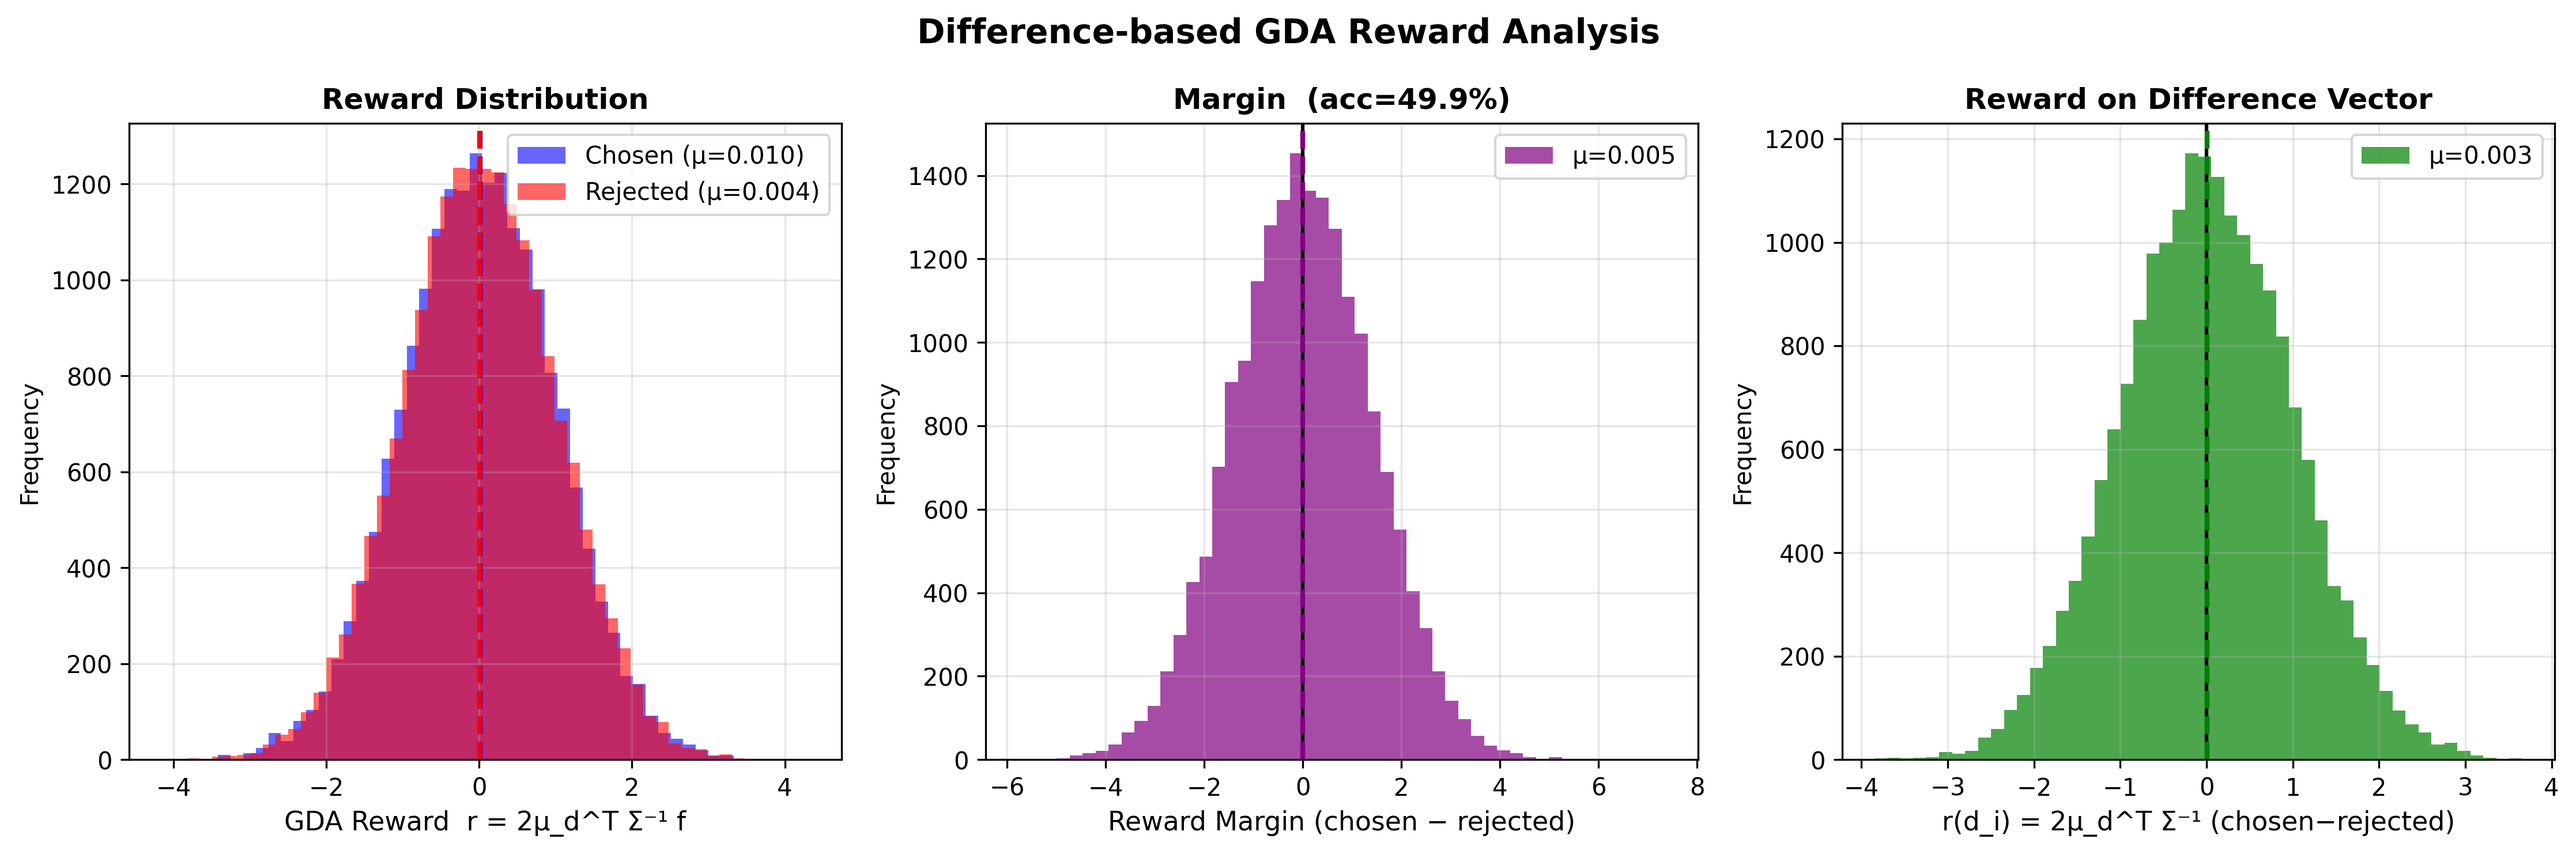
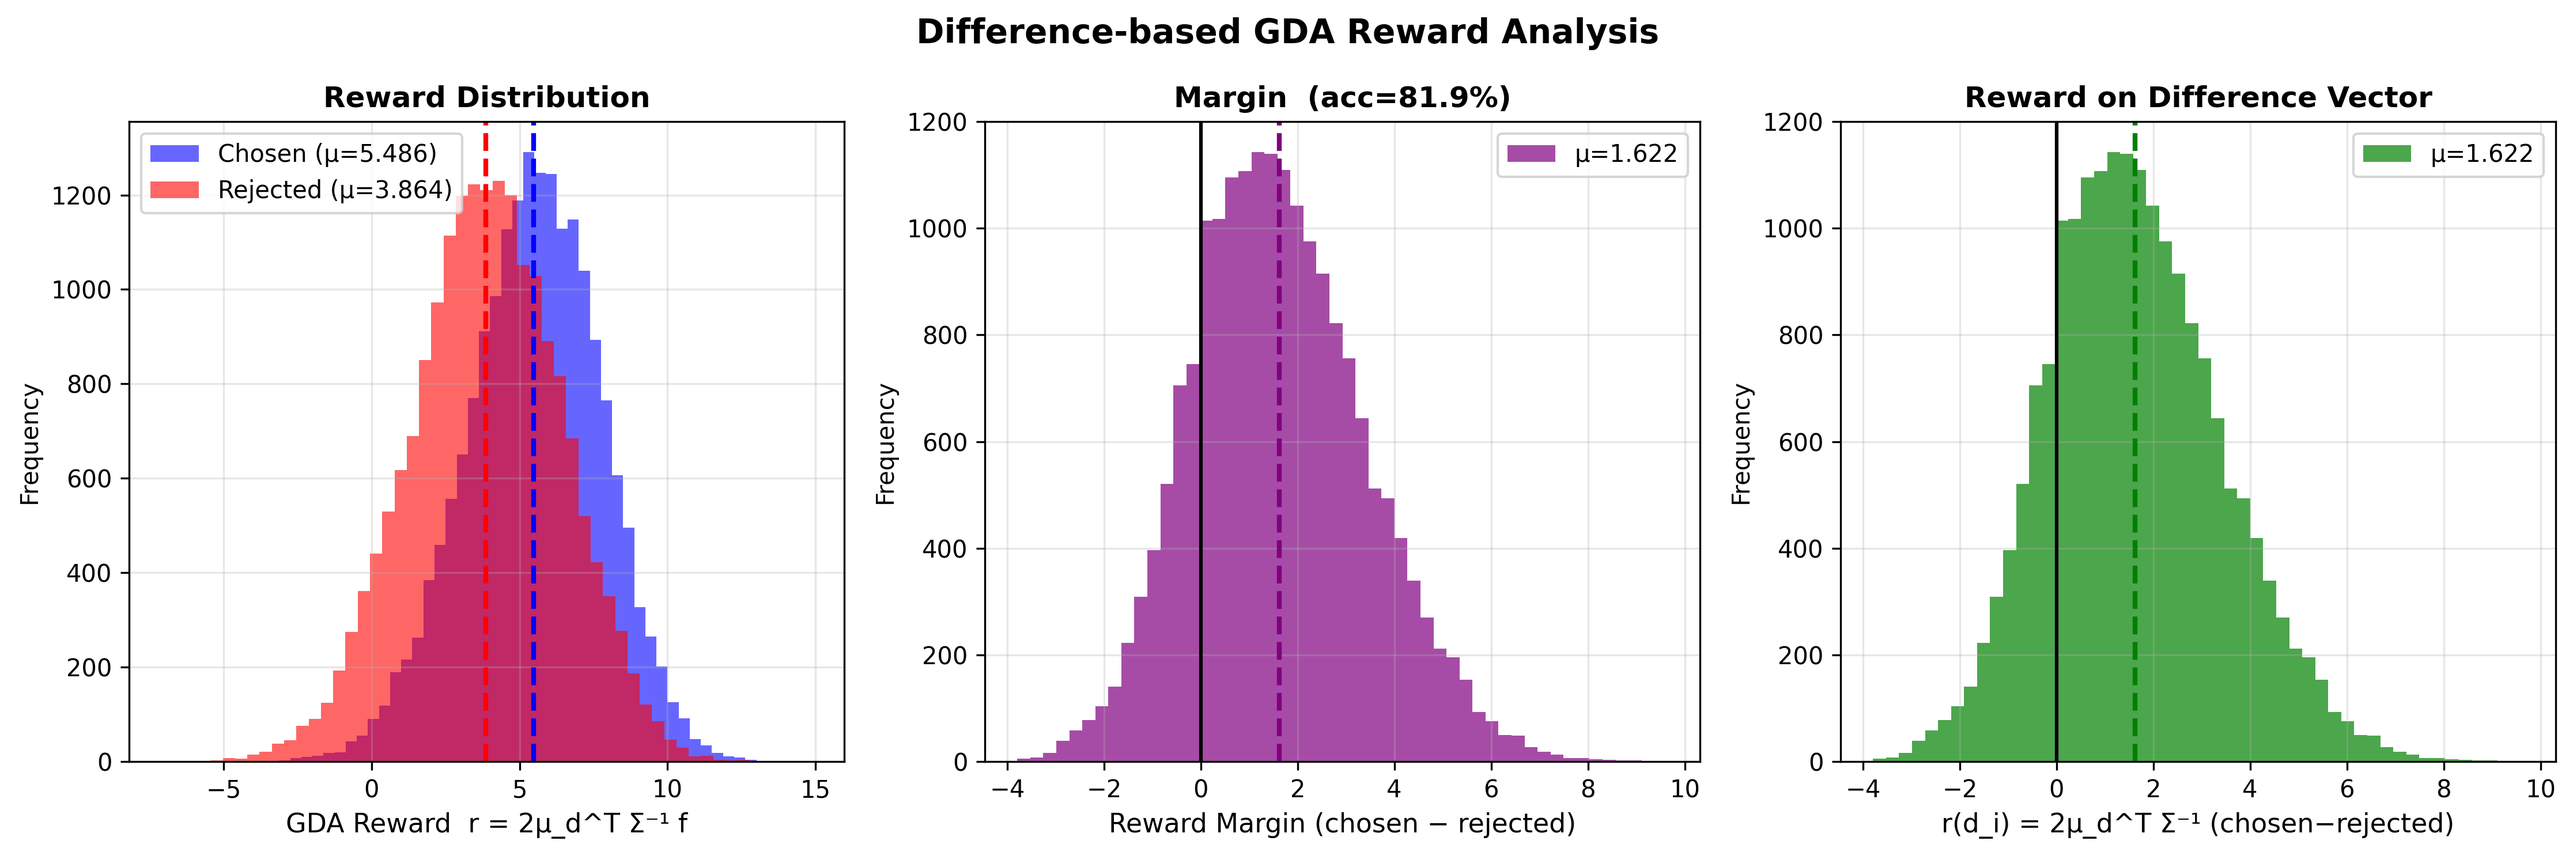
update

diff --git a/rmood/rm/mrm/candidates/difference.py b/rmood/rm/mrm/candidates/difference.py
@@ -24,32 +24,38 @@ from sklearn.covariance import LedoitWolf
 RMOOD_HOME = os.getenv("RMOOD_HOME")
 
 
-def compute_gda_reward(f, mu_d, sigma_inv):
+def compute_gda_reward(f, mu_d, sigma_d_inv, mu_chosen, sigma_chosen_inv, mu_rejected, sigma_rejected_inv):
     """
     Compute GDA reward: r = 2 * μ_d^T Σ^{-1} f
 
     Args:
         f:         (N, D) representations
         mu_d:      (D,)
-        sigma_inv: (D, D) Σ^{-1}
+        sigma_d_inv: (D, D) Σ_d^{-1}
+        mu_chosen: (D,)
+        sigma_chosen_inv: (D, D) Σ_chosen^{-1}
 
     Returns:
         rewards: (N,)
         w:       (D,) reward weight vector
     """
-    beta = 0.001
+    odds_const = 0.0
+    mahalanobis_const = 1.0
     
-    w = 2.0 * sigma_inv @ mu_d  # (D,)
+    w = 2.0 * sigma_d_inv @ mu_d  # (D,)
     odds_rewards = f @ w              # (N,)
     
-    diff = f - mu_d                          # (N, D)
-    mahalanobis_rewards = -0.5 * np.sum(diff @ sigma_inv * diff, axis=1)  # (N,)
-    rewards = odds_rewards + beta * mahalanobis_rewards
+    diff_chosen = f - mu_chosen  # (N, D)
+    diff_rejected = f - mu_rejected  # (N, D)
+    mahalanobis_chosen = -0.5 * np.sum(diff_chosen @ sigma_chosen_inv * diff_chosen, axis=1)  # (N,)
+    mahalanobis_rejected = -0.5 * np.sum(diff_rejected @ sigma_rejected_inv * diff_rejected, axis=1)  # (N,)
+    mahalanobis_rewards = mahalanobis_chosen - mahalanobis_rejected
+    rewards = odds_const * odds_rewards + mahalanobis_const * mahalanobis_rewards
     
     return rewards, w
 
 
-def estimate_difference_params(D):
+def estimate_params(chosen, rejected):
     """
     Estimate μ_d and Σ_d^{-1} from difference vectors d_i = chosen_i - rejected_i.
 
@@ -61,19 +67,38 @@ def estimate_difference_params(D):
         sigma_inv: (D, D) Σ_d^{-1} via Ledoit-Wolf
     """
     print("\nEstimating μ_d and Σ_d from difference vectors...")
+    D = chosen - rejected
+    
+    mu_chosen = chosen.mean(axis=0)
+    mu_rejected = rejected.mean(axis=0)
     mu_d = D.mean(axis=0)  # (D,)
 
     D_centered = D - mu_d
     print(f"  Fitting Ledoit-Wolf on {D.shape[0]} samples, {D.shape[1]} dimensions...")
     lw = LedoitWolf(assume_centered=True)
     lw.fit(D_centered)
-
-    sigma_inv = lw.precision_
+    sigma_d_inv = lw.precision_
     print(f"  ||μ_d||: {np.linalg.norm(mu_d):.4f}")
     print(f"  Σ_d condition number: {np.linalg.cond(lw.covariance_):.2e}")
     print(f"  Ledoit-Wolf shrinkage (α): {lw.shrinkage_:.6f}")
+    
+    chosen_centered = chosen - mu_chosen
+    print(f"  fitting Ledoit-Wolf on {chosen_centered.shape[0]} samples, {chosen_centered.shape[1]} dimensions...")
+    lw.fit(chosen_centered)
+    sigma_chosen_inv = lw.precision_
+    print(f"  ||μ_chosen||: {np.linalg.norm(mu_chosen):.4f}")
+    print(f"  Σ_chosen condition number: {np.linalg.cond(lw.covariance_):.2e}")
+    print(f"  Ledoit-Wolf shrinkage (α): {lw.shrinkage_:.6f}")
+    
+    rejected_centered = rejected - mu_rejected
+    print(f"  fitting Ledoit-Wolf on {rejected_centered.shape[0]} samples, {rejected_centered.shape[1]} dimensions...")
+    lw.fit(rejected_centered)
+    sigma_rejected_inv = lw.precision_
+    print(f"  ||μ_rejected||: {np.linalg.norm(mu_rejected):.4f}")
+    print(f"  Σ_rejected condition number: {np.linalg.cond(lw.covariance_):.2e}")
+    print(f"  Ledoit-Wolf shrinkage (α): {lw.shrinkage_:.6f}")
 
-    return mu_d, sigma_inv
+    return mu_d, mu_chosen, mu_rejected, sigma_d_inv, sigma_chosen_inv, sigma_rejected_inv
 
 
 def main():
@@ -82,11 +107,11 @@ def main():
     )
     parser.add_argument(
         "--chosen_path", type=str,
-        default=f"{RMOOD_HOME}/datasets/alpacafarm/rm/representations/Hahmdong--RMOOD-qwen3-4b-alpacafarm-rm/chosen_representations.npy"
+        default=f"{RMOOD_HOME}/datasets/alpacafarm/rm/representations/Hahmdong--RMOOD-qwen3-4b-alpacafarm-rm-center/chosen_representations.npy"
     )
     parser.add_argument(
         "--rejected_path", type=str,
-        default=f"{RMOOD_HOME}/datasets/alpacafarm/rm/representations/Hahmdong--RMOOD-qwen3-4b-alpacafarm-rm/rejected_representations.npy"
+        default=f"{RMOOD_HOME}/datasets/alpacafarm/rm/representations/Hahmdong--RMOOD-qwen3-4b-alpacafarm-rm-center/rejected_representations.npy"
     )
     parser.add_argument("--sample_size", type=int, default=None)
     parser.add_argument("--output", type=str, default="difference_reward.png")
@@ -110,27 +135,16 @@ def main():
         print(f"  Sampled {len(chosen)} pairs")
 
     # ------------------------------------------------------------------ #
-    # 2. Compute d_i = chosen_i - rejected_i
+    # 2. Estimate μ_d and Σ_d from D
     # ------------------------------------------------------------------ #
-    D = chosen - rejected  # (N, D)
-    print(f"\nDifference vectors d_i = chosen_i - rejected_i")
-    print(f"  shape: {D.shape}")
-    print(f"  ||d_i|| mean: {np.linalg.norm(D, axis=1).mean():.4f}")
+    mu_d, mu_chosen, mu_rejected, sigma_d_inv, sigma_chosen_inv, sigma_rejected_inv = estimate_params(chosen, rejected)
 
     # ------------------------------------------------------------------ #
-    # 3. Estimate μ_d and Σ_d from D
-    # ------------------------------------------------------------------ #
-    mu_d, sigma_inv = estimate_difference_params(D)
-
-    # ------------------------------------------------------------------ #
-    # 4. Compute GDA rewards
+    # 3. Compute GDA rewards
     # ------------------------------------------------------------------ #
     print("\nComputing GDA rewards: r = 2 * μ_d^T Σ_d^{-1} f ...")
-    chosen_rewards,   w = compute_gda_reward(chosen,   mu_d, sigma_inv)
-    rejected_rewards, _ = compute_gda_reward(rejected, mu_d, sigma_inv)
-
-    # reward on difference vector itself
-    diff_rewards, _ = compute_gda_reward(D, mu_d, sigma_inv)
+    chosen_rewards,   w = compute_gda_reward(chosen, mu_d, sigma_d_inv, mu_chosen, sigma_chosen_inv, mu_rejected, sigma_rejected_inv)
+    rejected_rewards, _ = compute_gda_reward(rejected, mu_d, sigma_d_inv, mu_chosen, sigma_chosen_inv, mu_rejected, sigma_rejected_inv)
 
     # ------------------------------------------------------------------ #
     # 5. Statistics
@@ -145,13 +159,11 @@ def main():
     print(f"  Rejected reward: mean={rejected_rewards.mean():.4f},  std={rejected_rewards.std():.4f}")
     print(f"  Margin (chosen - rejected): mean={margin.mean():.4f}, std={margin.std():.4f}")
     print(f"  Accuracy (chosen > rejected): {acc:.4f} ({acc*100:.1f}%)")
-    print(f"\n  r(d_i) = 2 μ_d^T Σ_d^{{-1}} d_i")
-    print(f"  r(d_i) mean: {diff_rewards.mean():.4f}  (>0 means model discriminates correctly)")
 
     # ------------------------------------------------------------------ #
     # 6. Visualization
     # ------------------------------------------------------------------ #
-    fig, axes = plt.subplots(1, 3, figsize=(15, 5))
+    fig, axes = plt.subplots(1, 2, figsize=(10, 5))
 
     # (a) Reward distribution
     ax = axes[0]
@@ -179,24 +191,6 @@ def main():
     ax.set_title(f"Margin  (acc={acc*100:.1f}%)", fontweight="bold")
     ax.legend()
     ax.grid(alpha=0.3)
-
-    # (c) r(d_i) = 2 μ_d^T Σ^{-1} d_i distribution
-    ax = axes[2]
-    ax.hist(diff_rewards, bins=bins, color="green", alpha=0.7,
-            label=f"μ={diff_rewards.mean():.3f}")
-    ax.axvline(0,                  color="black", linestyle="-",  linewidth=1.5)
-    ax.axvline(diff_rewards.mean(), color="green", linestyle="--", linewidth=2)
-    ax.set_xlabel("r(d_i) = 2μ_d^T Σ⁻¹ (chosen−rejected)", fontsize=11)
-    ax.set_ylabel("Frequency")
-    ax.set_title("Reward on Difference Vector", fontweight="bold")
-    ax.legend()
-    ax.grid(alpha=0.3)
-
-    plt.suptitle("Difference-based GDA Reward Analysis", fontsize=14, fontweight="bold")
-    plt.tight_layout()
-    plt.savefig(args.output, dpi=300, bbox_inches="tight")
-    print(f"\nFigure saved to: {args.output}")
-    plt.show()
 
     print("\n" + "=" * 60)
     print("Done.")

diff --git a/rmood/rm/mrm/statistics/estimate.py b/rmood/rm/mrm/statistics/estimate.py
@@ -296,9 +296,12 @@ def compute_gda_parameters(chosen_representations, rejected_representations):
     """
     Difference-based GDA parameter estimation.
 
-    d_i = chosen_i - rejected_i
-    μ_d = E[d_i]
-    Σ_d = Cov(d_i)  via Ledoit-Wolf shrinkage
+    μ_chosen = E[chosen_i]
+    μ_rejected = E[rejected_i]
+    μ_d = μ_chosen - μ_rejected
+    Σ_chosen = Cov(chosen_i)  via Ledoit-Wolf shrinkage
+    Σ_rejected = Cov(rejected_i)  via Ledoit-Wolf shrinkage
+    Σ_d = Cov(chosen_i - rejected_i)  via Ledoit-Wolf shrinkage
 
     Args:
         chosen_representations:  numpy array [N, hidden_size]
@@ -312,6 +315,35 @@ def compute_gda_parameters(chosen_representations, rejected_representations):
     print("\n" + "=" * 80)
     print("Computing difference-based GDA parameters (Ledoit-Wolf shrinkage)...")
     print("=" * 80)
+    
+    mu_chosen = chosen_representations.mean(axis=0)
+    mu_rejected = rejected_representations.mean(axis=0)
+    
+    print(f"μ_chosen shape: {mu_chosen.shape}")
+    print(f"||μ_chosen||: {np.linalg.norm(mu_chosen):.4f}")
+    print(f"μ_rejected shape: {mu_rejected.shape}")
+    print(f"||μ_rejected||: {np.linalg.norm(mu_rejected):.4f}")
+    
+    chosen_centered = chosen_representations - mu_chosen
+    rejected_centered = rejected_representations - mu_rejected
+    
+    print(f"Fitting Ledoit-Wolf on {chosen_centered.shape[0]} samples, {chosen_centered.shape[1]} dimensions...")
+    lw = LedoitWolf(assume_centered=True)
+    lw.fit(chosen_centered)
+    sigma_chosen = lw.covariance_
+    sigma_chosen_inv = lw.precision_
+    print(f"||μ_chosen||: {np.linalg.norm(mu_chosen):.4f}")
+    print(f"Σ_chosen condition number: {np.linalg.cond(sigma_chosen):.2e}")
+    print(f"Ledoit-Wolf shrinkage coefficient (α): {lw.shrinkage_:.6f}")
+    
+    print(f"Fitting Ledoit-Wolf on {rejected_centered.shape[0]} samples, {rejected_centered.shape[1]} dimensions...")
+    lw = LedoitWolf(assume_centered=True)
+    lw.fit(rejected_centered)
+    sigma_rejected = lw.covariance_
+    sigma_rejected_inv = lw.precision_
+    print(f"||μ_rejected||: {np.linalg.norm(mu_rejected):.4f}")
+    print(f"Σ_rejected condition number: {np.linalg.cond(sigma_rejected):.2e}")
+    print(f"Ledoit-Wolf shrinkage coefficient (α): {lw.shrinkage_:.6f}")
 
     # d_i = chosen_i - rejected_i
     D = chosen_representations - rejected_representations  # [N, hidden_size]
@@ -325,14 +357,14 @@ def compute_gda_parameters(chosen_representations, rejected_representations):
     lw = LedoitWolf(assume_centered=True)
     lw.fit(D_centered)
 
-    sigma     = lw.covariance_
-    sigma_inv = lw.precision_
+    sigma_d   = lw.covariance_
+    sigma_d_inv = lw.precision_
 
-    print(f"Σ_d shape: {sigma.shape}")
-    print(f"Σ_d condition number: {np.linalg.cond(sigma):.2e}")
+    print(f"Σ_d shape: {sigma_d.shape}")
+    print(f"Σ_d condition number: {np.linalg.cond(sigma_d):.2e}")
     print(f"Ledoit-Wolf shrinkage coefficient (α): {lw.shrinkage_:.6f}")
 
-    return mu_d, sigma, sigma_inv
+    return mu_chosen, mu_rejected, mu_d, sigma_chosen, sigma_chosen_inv, sigma_rejected, sigma_rejected_inv, sigma_d, sigma_d_inv
 
 
 if __name__ == "__main__":
@@ -429,15 +461,21 @@ if __name__ == "__main__":
         chosen_reps, rejected_reps, message_reps = extract_representations(args)
 
     if args.compute_gda:
-        mu_d, sigma, sigma_inv = compute_gda_parameters(chosen_reps, rejected_reps)
+        mu_chosen, mu_rejected, mu_d, sigma_chosen, sigma_chosen_inv, sigma_rejected, sigma_rejected_inv, sigma_d, sigma_d_inv = compute_gda_parameters(chosen_reps, rejected_reps)
         
         parameters_dir = os.path.join(args.output_dir, model_name_clean)
         os.makedirs(parameters_dir, exist_ok=True)
         gda_output_path = os.path.join(parameters_dir, "gda_parameters.npz")
         np.savez(
             gda_output_path,
+            mu_chosen=mu_chosen,
+            mu_rejected=mu_rejected,
             mu_d=mu_d,
-            sigma=sigma,
-            sigma_inv=sigma_inv
+            sigma_chosen=sigma_chosen,
+            sigma_chosen_inv=sigma_chosen_inv,
+            sigma_rejected=sigma_rejected,
+            sigma_rejected_inv=sigma_rejected_inv,
+            sigma_d=sigma_d,
+            sigma_d_inv=sigma_d_inv,
         )
         print(f"\nGDA parameters saved to: {gda_output_path}")

diff --git a/rmood/rm/mrm/convert_to_mrm.py b/rmood/rm/mrm/convert_to_mrm.py
@@ -13,19 +13,31 @@ RMOOD_HOME = os.getenv("RMOOD_HOME")
 def load_gda_parameters(clean_name):
     parameters_path = f"{RMOOD_HOME}/datasets/alpacafarm/rm/representations/{clean_name}/gda_parameters.npz"
     with np.load(parameters_path) as data:
-        mu_d      = data["mu_d"]
-        sigma_inv = data["sigma_inv"]
-    return mu_d, sigma_inv
+        mu_chosen = data["mu_chosen"]
+        mu_rejected = data["mu_rejected"]
+        mu_d = data["mu_d"]
+        sigma_chosen = data["sigma_chosen"]
+        sigma_chosen_inv = data["sigma_chosen_inv"]
+        sigma_rejected = data["sigma_rejected"]
+        sigma_rejected_inv = data["sigma_rejected_inv"]
+        sigma_d = data["sigma_d"]
+        sigma_d_inv = data["sigma_d_inv"]
+    return mu_chosen, mu_rejected, mu_d, sigma_chosen, sigma_chosen_inv, sigma_rejected, sigma_rejected_inv, sigma_d, sigma_d_inv
 
 
-def convert_qwen3_to_mrm(base_model, mu_d, sigma_inv):
+def convert_qwen3_to_mrm(base_model, mu_chosen, mu_rejected, mu_d, sigma_chosen, sigma_chosen_inv, sigma_rejected, sigma_rejected_inv, sigma_d, sigma_d_inv):
     """
     Convert Qwen3ForSequenceClassification model to MRM.
 
     Args:
         base_model: Trained Qwen3ForSequenceClassification model
         mu_d:      mean of difference vectors E[chosen - rejected]  [hidden_size]
-        sigma_inv: Σ_d^{-1} (Ledoit-Wolf)                          [hidden_size, hidden_size]
+        sigma_chosen: Σ_chosen (Ledoit-Wolf)                         [hidden_size, hidden_size]
+        sigma_chosen_inv: Σ_chosen^{-1} (Ledoit-Wolf)               [hidden_size, hidden_size]
+        sigma_rejected: Σ_rejected (Ledoit-Wolf)                     [hidden_size, hidden_size]
+        sigma_rejected_inv: Σ_rejected^{-1} (Ledoit-Wolf)           [hidden_size, hidden_size]
+        sigma_d: Σ_d (Ledoit-Wolf)                                   [hidden_size, hidden_size]
+        sigma_d_inv: Σ_d^{-1} (Ledoit-Wolf)                          [hidden_size, hidden_size]
 
     Returns:
         mrm_model: MRM model
@@ -44,7 +56,7 @@ def convert_qwen3_to_mrm(base_model, mu_d, sigma_inv):
     
     # 3. Set difference-based GDA parameters
     print(f"Setting GDA parameters...")
-    mrm_model.set_gda_params(mu_d, sigma_inv)
+    mrm_model.set_gda_params(mu_chosen, mu_rejected, mu_d, sigma_chosen, sigma_chosen_inv, sigma_rejected, sigma_rejected_inv, sigma_d, sigma_d_inv)
     
     # 4. Match dtype and device
     mrm_model = mrm_model.to(dtype=torch.bfloat16)
@@ -59,7 +71,15 @@ def convert_qwen3_to_mrm(base_model, mu_d, sigma_inv):
     print(f"✓ Conversion complete!")
     print(f"  - Model type: {type(mrm_model).__name__}")
     print(f"  - use_gda_reward: {mrm_model.use_gda_reward}")
+    print(f"  - ||μ_chosen||: {np.linalg.norm(mu_chosen):.4f}")
+    print(f"  - ||μ_rejected||: {np.linalg.norm(mu_rejected):.4f}")
     print(f"  - ||μ_d||: {np.linalg.norm(mu_d):.4f}")
+    print(f"  - ||σ_chosen||: {np.linalg.norm(sigma_chosen):.4f}")
+    print(f"  - ||σ_chosen_inv||: {np.linalg.norm(sigma_chosen_inv):.4f}")
+    print(f"  - ||σ_rejected||: {np.linalg.norm(sigma_rejected):.4f}")
+    print(f"  - ||σ_rejected_inv||: {np.linalg.norm(sigma_rejected_inv):.4f}")
+    print(f"  - ||σ_d||: {np.linalg.norm(sigma_d):.4f}")
+    print(f"  - ||σ_d_inv||: {np.linalg.norm(sigma_d_inv):.4f}")
     
     return mrm_model
 
@@ -104,11 +124,11 @@ def main():
     
     # Step 2: Load difference-based GDA parameters
     clean_name = args.base_model_path.replace("/", "--")
-    mu_d, sigma_inv = load_gda_parameters(clean_name)
+    mu_chosen, mu_rejected, mu_d, sigma_chosen, sigma_chosen_inv, sigma_rejected, sigma_rejected_inv, sigma_d, sigma_d_inv = load_gda_parameters(clean_name)
     print(f"✓ GDA parameters loaded  ||μ_d||={np.linalg.norm(mu_d):.4f}")
 
     # Step 3: Convert to MRM and save
-    mrm_model = convert_qwen3_to_mrm(base_model, mu_d, sigma_inv)
+    mrm_model = convert_qwen3_to_mrm(base_model, mu_chosen, mu_rejected, mu_d, sigma_chosen, sigma_chosen_inv, sigma_rejected, sigma_rejected_inv, sigma_d, sigma_d_inv)
     
     # Save model
     os.makedirs(args.output_path, exist_ok=True)

diff --git a/rmood/rm/mrm/candidates/mahalanobis.py b/rmood/rm/mrm/candidates/mahalanobis.py
@@ -75,11 +75,11 @@ def main():
     )
     parser.add_argument(
         "--chosen_path", type=str,
-        default=f"{RMOOD_HOME}/datasets/alpacafarm/rm/representations/chosen_representations.npy"
+        default=f"{RMOOD_HOME}/datasets/alpacafarm/rm/representations/Hahmdong--RMOOD-qwen3-4b-alpacafarm-rm-center/chosen_representations.npy"
     )
     parser.add_argument(
         "--rejected_path", type=str,
-        default=f"{RMOOD_HOME}/datasets/alpacafarm/rm/representations/rejected_representations.npy"
+        default=f"{RMOOD_HOME}/datasets/alpacafarm/rm/representations/Hahmdong--RMOOD-qwen3-4b-alpacafarm-rm-center/rejected_representations.npy"
     )
     parser.add_argument("--sample_size", type=int, default=None)
     parser.add_argument("--output", type=str, default="difference_reward.png")
